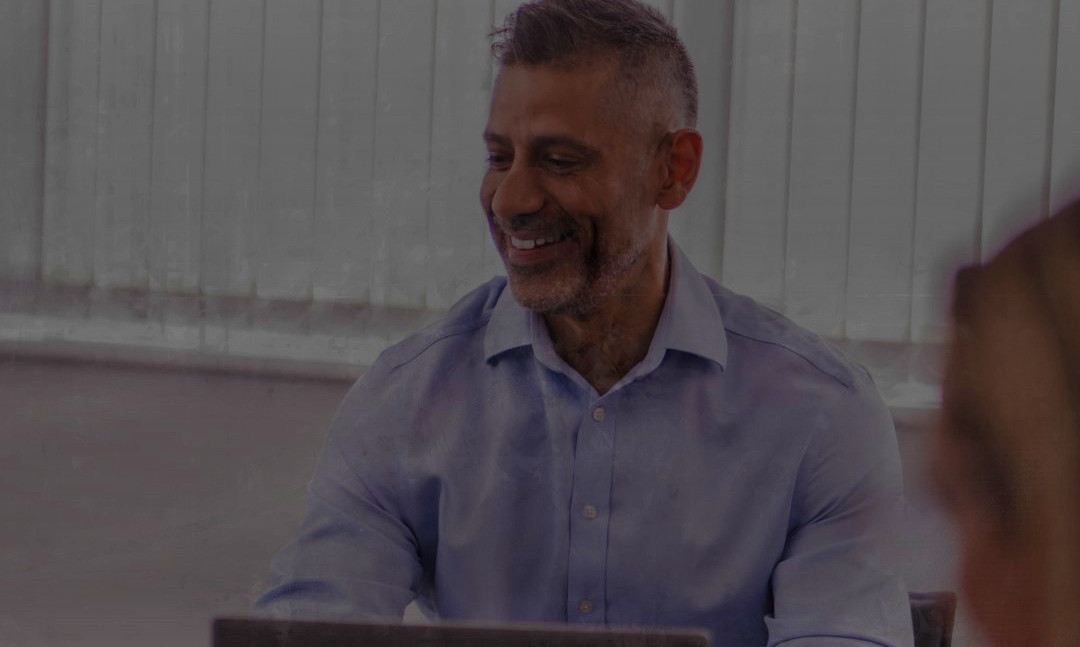
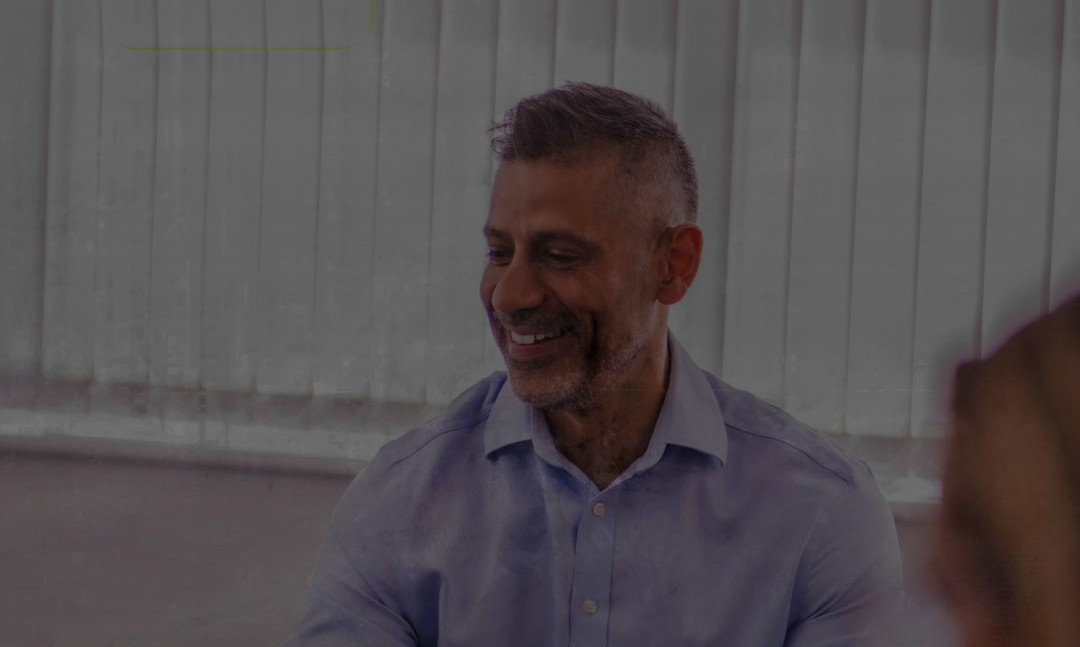
Fix the title running through the salary line
A live advert on 12 November, "Multi-Skilled Maintenance Engineer", broke
into three lines and the third sat on top of "Competitive | Bradford".

titleSizeFor divided the whole title's character count by the column width,
which assumes a word can break anywhere. Long words cannot share a line:
that title measures as two lines' worth of characters but renders as three.

Lays the words out the way the renderer does instead — word by word, each
carrying its trailing margin, as satori measures it — and adds two smaller
steps so a very long title still has somewhere to go.

Checked against twenty real-shaped titles: the lowest title pixel now lands
at 970 at worst, against the salary line at 1010.

Also moves exec-05 down, using the same pill patch as bg-09; the corner
behind the pill there is vertical blinds, which mirrors cleanly.

Claude-Session: https://claude.ai/code/session_016EB4dMayfiNqVN3gnfgXtW

diff --git a/lib/ad-layout.js b/lib/ad-layout.js
@@ -52,13 +52,41 @@ const CHAR_W = 0.54;
 // The title block is a fixed 240px — the meta line sits immediately under it —
 // so a long title has to come down in size rather than run into it. Each step
 // is the largest size at which the estimated number of lines still fits.
-const TITLE_STEPS = [TITLE_BASE, 72, 62, 54, 46];
+const TITLE_STEPS = [TITLE_BASE, 72, 62, 54, 46, 40, 34];
+
+// How many lines the title actually breaks into at a given size.
+//
+// This used to divide the whole title's character count by the column width,
+// which assumes words can be split anywhere. They cannot: "Multi-Skilled
+// Maintenance Engineer." measures as two lines' worth of characters but breaks
+// into three, because "Multi-Skilled" and "Maintenance" will not share a line.
+// On 12 November that put a third line through the salary on a live advert.
+//
+// So lay the words out the way the renderer does. Each word carries its
+// trailing margin even at the end of a line — that is what satori measures
+// against the column — and the last word carries the full stop.
+function lineCountAt(words, size) {
+  const space = 0.26 * size;
+  let lines = 1;
+  let used = 0;
+  for (let i = 0; i < words.length; i++) {
+    const chars = words[i].length + (i === words.length - 1 ? 1 : 0);
+    const w = chars * CHAR_W * size + space;
+    if (used && used + w > TITLE_W) {
+      lines++;
+      used = w;
+    } else {
+      used += w;
+    }
+  }
+  return lines;
+}
 
 export function titleSizeFor(title) {
-  const n = String(title || "").trim().length;
+  const words = String(title || "").trim().split(/\s+/).filter(Boolean);
+  if (!words.length) return TITLE_BASE;
   for (const size of TITLE_STEPS) {
-    const lines = Math.max(1, Math.ceil((n * CHAR_W * size) / TITLE_W));
-    if (lines * size * TITLE_LH <= TITLE_BLOCK_H) return size;
+    if (lineCountAt(words, size) * size * TITLE_LH <= TITLE_BLOCK_H) return size;
   }
   return TITLE_STEPS[TITLE_STEPS.length - 1];
 }

diff --git a/scripts/lift-photos.py b/scripts/lift-photos.py
@@ -32,7 +32,7 @@ CLEAN_TOP, CLEAN_BOT = 175, 985
 OFFSETS = {
     # move the picture down — more room above the head
     "bg-04": -45, "bg-05": -45, "bg-09": -140, "bg-10": -45,
-    "bg-15": -45, "bg-16": -45, "bg-28": -45,
+    "bg-15": -45, "bg-16": -45, "bg-28": -45, "exec-05": -95,
     # move the picture up
     "bg-11": 90, "bg-17": 90, "bg-19": 90, "bg-20": 90, "bg-22": 90,
     "bg-23": 90, "bg-29": 90, "bg-32": 90, "exec-02": 90, "exec-08": 90,
@@ -47,7 +47,7 @@ DROP = {"bg-25"}
 # corner is texture — foliage, a blurred wall — and never where it holds a face,
 # a straight edge or lettering: check the result before adding a name here.
 PILL_BOX = (80, 78, 384, 186)
-PILL_FILL = {"bg-09"}
+PILL_FILL = {"bg-09", "exec-05"}
 
 os.makedirs(DST, exist_ok=True)
 
